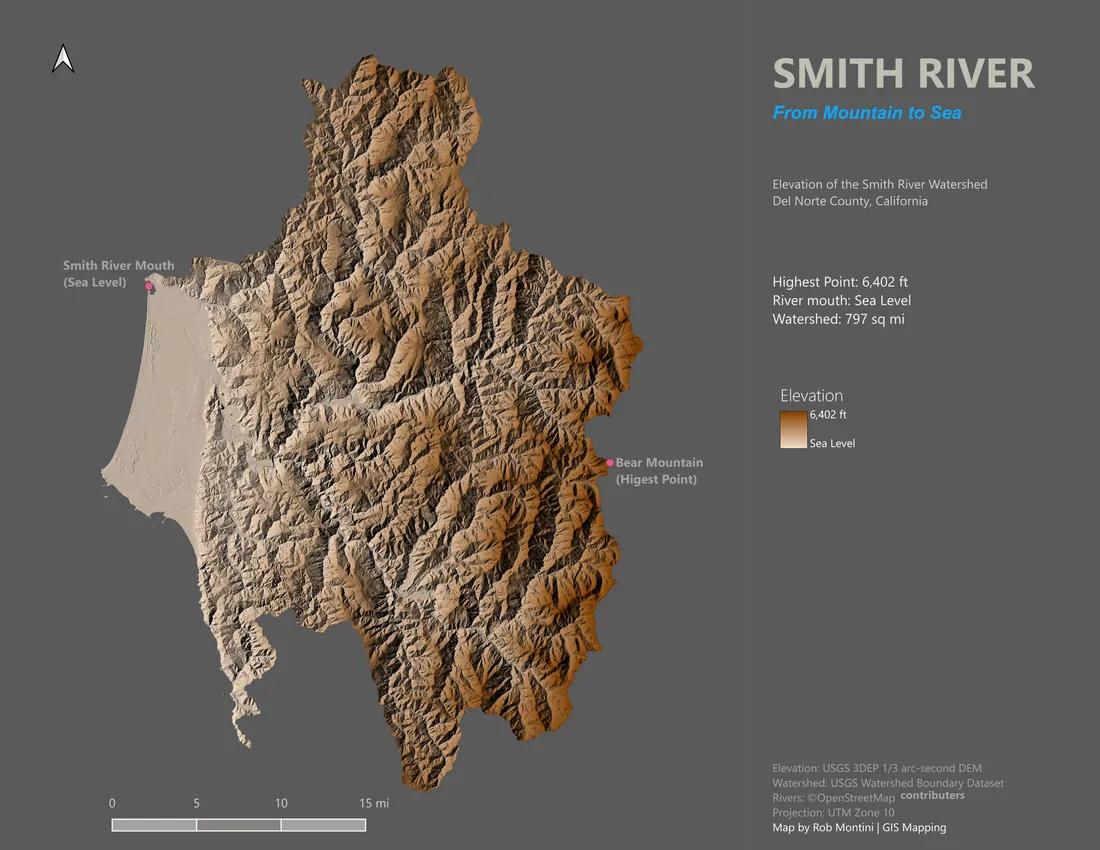
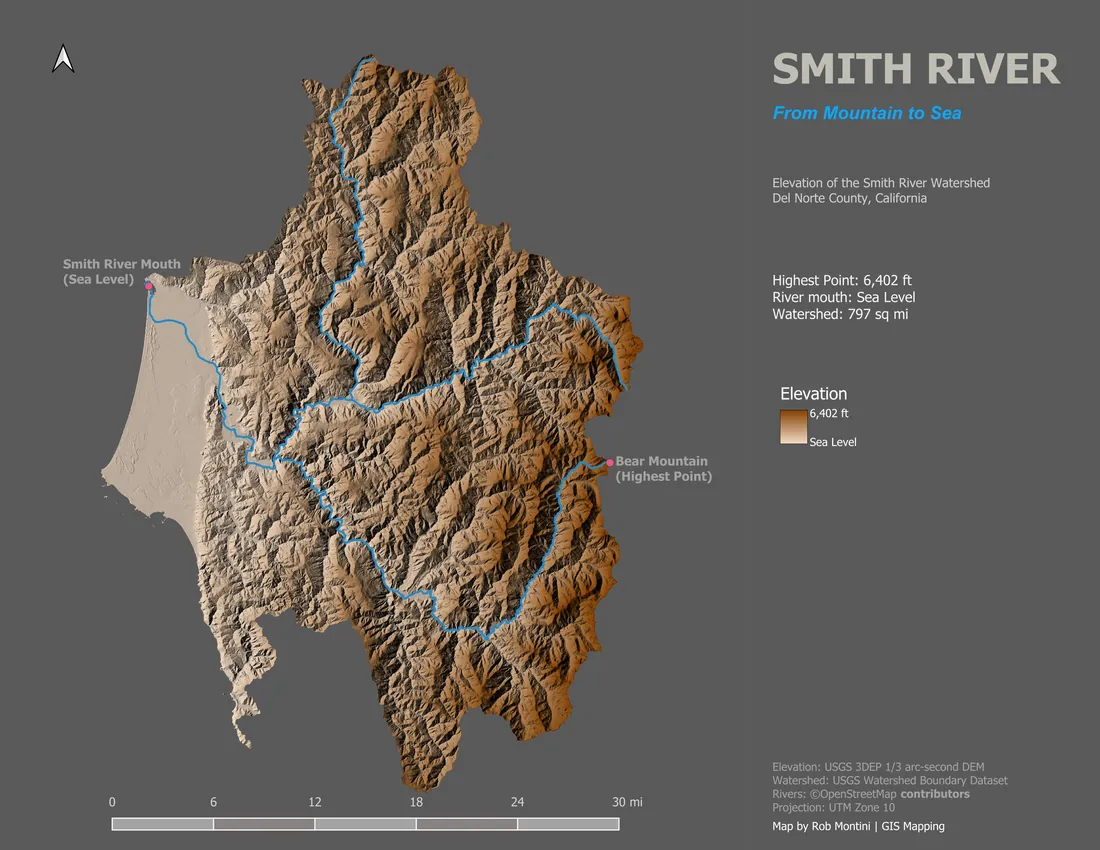
Replace Smith River map with updated version showing rivers

diff --git a/gallery.html b/gallery.html
@@ -197,7 +197,7 @@
     <p class="eyebrow">3D terrain maps</p>
     <h2 class="gtitle">Smith River: From Mountain to Sea</h2>
     <p class="gplace">Smith River Watershed, Del Norte County, California</p>
-    <p>Shaded relief of the 797 square mile Smith River watershed, from the river mouth at sea level to Bear Mountain at 6,402 feet.</p>
+    <p>Shaded relief of the 797 square mile Smith River watershed, with the river and its forks traced from Bear Mountain at 6,402 feet to the river mouth at sea level.</p>
     <p class="gfor"><strong>Great for:</strong> Watershed groups, anglers, lodges, and wall prints.</p>
     <p class="small muted">Made with USGS 3DEP elevation, the USGS Watershed Boundary Dataset, and OpenStreetMap rivers.</p>
     <p class="gprice">From $75</p>

diff --git a/build.py b/build.py
@@ -290,7 +290,7 @@ MORE_MAPS = [
          made=''),
     dict(group='show', slug='smith-river-elevation', good='Watershed groups, anglers, lodges, and wall prints.', type='3D terrain maps', w=1100, h=850,
          title='Smith River: From Mountain to Sea', place='Smith River Watershed, Del Norte County, California',
-         desc='Shaded relief of the 797 square mile Smith River watershed, from the river mouth at sea level to Bear Mountain at 6,402 feet.',
+         desc='Shaded relief of the 797 square mile Smith River watershed, with the river and its forks traced from Bear Mountain at 6,402 feet to the river mouth at sea level.',
          made='USGS 3DEP elevation, the USGS Watershed Boundary Dataset, and OpenStreetMap rivers'),
     dict(group='show', slug='beachfront-park', good='Parks departments, events, rentals, and visitor guides.', type='Trail & park maps', w=1100, h=850,
          title='Beachfront Park', place='Crescent City, California',
